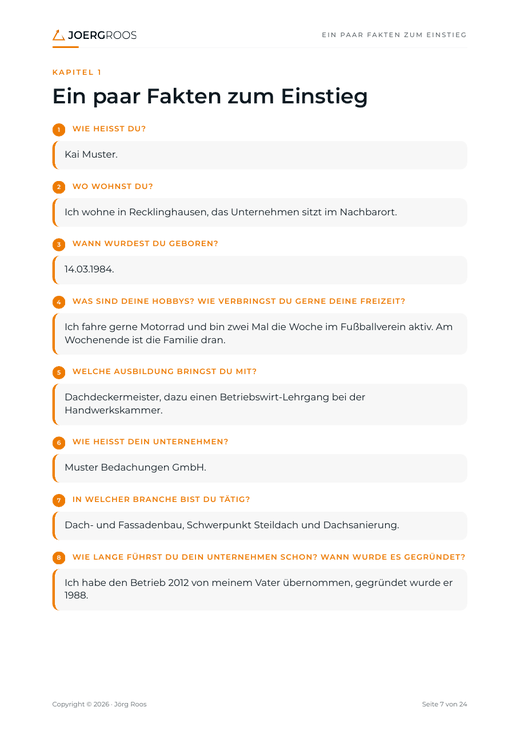
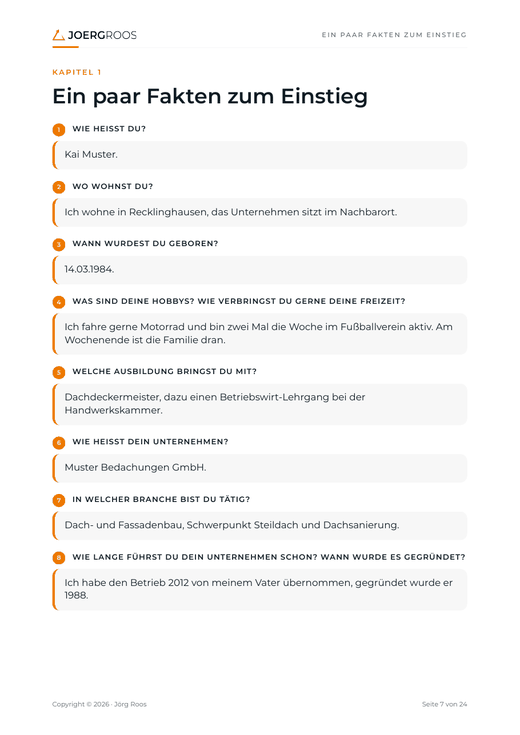
fix: PDF — Fragetexte dunkelblau

diff --git a/lib/pdf/Workbook.tsx b/lib/pdf/Workbook.tsx
@@ -50,7 +50,7 @@ const st = StyleSheet.create({
   frageZeile: { flexDirection: 'row', alignItems: 'flex-start', marginBottom: 5 },
   punkt: { width: 15, height: 15, borderRadius: 7.5, backgroundColor: O, alignItems: 'center', justifyContent: 'center', marginRight: 8 },
   punktZahl: { fontSize: 7, color: '#FFFFFF', fontWeight: 600 },
-  frageText: { flex: 1, fontSize: 8.8, letterSpacing: 0.7, color: O, textTransform: 'uppercase', fontWeight: 600, lineHeight: 1.3, paddingTop: 1 },
+  frageText: { flex: 1, fontSize: 8.8, letterSpacing: 0.7, color: BLAU, textTransform: 'uppercase', fontWeight: 600, lineHeight: 1.3, paddingTop: 1 },
   karte: { backgroundColor: KARTE, borderRadius: 8, borderLeftWidth: 3, borderLeftColor: O, paddingVertical: 9, paddingHorizontal: 11, marginBottom: 13 },
   antwort: { fontSize: 11, fontWeight: 400, lineHeight: ZH },
   leer: { fontSize: 11, color: GRAU, fontWeight: 300, lineHeight: ZH },
